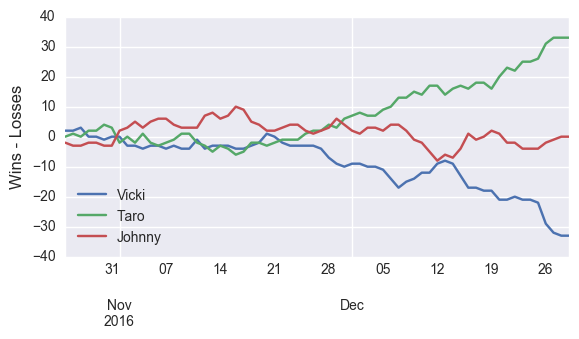
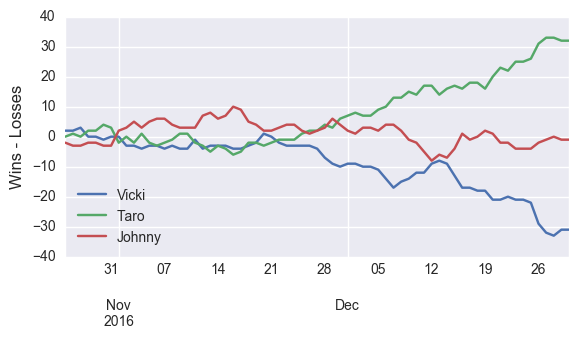
update 12/30

diff --git a/index.html b/index.html
@@ -35,7 +35,7 @@
 <a id="the-bet-is-on" class="anchor" href="#the-bet-is-on" aria-hidden="true"><span aria-hidden="true" class="octicon octicon-link"></span></a>The bet is on.</h1>
 
 <h1>
-<a id="current-winner-of-2016-17-season" class="anchor" href="#current-winner-of-2016-17-season" aria-hidden="true"><span aria-hidden="true" class="octicon octicon-link"></span></a>Current winner of 2016-17 Season (as of 12/29/2016):</h1>
+<a id="current-winner-of-2016-17-season" class="anchor" href="#current-winner-of-2016-17-season" aria-hidden="true"><span aria-hidden="true" class="octicon octicon-link"></span></a>Current winner of 2016-17 Season (as of 12/30/2016):</h1>
 
 <h2>
 <a id="none" class="anchor" href="#none" aria-hidden="true"><span aria-hidden="true" class="octicon octicon-link"></span></a><strong>Taro</strong>
@@ -44,23 +44,23 @@
 <h2>
 <a id="johnny" class="anchor" href="#johnny" aria-hidden="true"><span aria-hidden="true" class="octicon octicon-link"></span></a>Johnny</h2>
 
-<p>Wins: 163<br>
-Losses: 163<br>
-Remaining wins available: 422</p>
+<p>Wins: 164<br>
+Losses: 165<br>
+Remaining wins available: 419</p>
 
 <h2>
 <a id="taro" class="anchor" href="#taro" aria-hidden="true"><span aria-hidden="true" class="octicon octicon-link"></span></a>Taro</h2>
 
-<p>Wins: 176<br>
-Losses: 143<br>
-Remaining wins available: 422</p>
+<p>Wins: 177<br>
+Losses: 145<br>
+Remaining wins available: 419</p>
 
 <h2>
 <a id="vicki" class="anchor" href="#vicki" aria-hidden="true"><span aria-hidden="true" class="octicon octicon-link"></span></a>Vicki</h2>
 
-<p>Wins: 145<br>
-Losses: 178<br>
-Remaining wins available: 427</p>
+<p>Wins: 149<br>
+Losses: 180<br>
+Remaining wins available: 421</p>
 
 <img src='pythoncode/win_percent.png' alt='Winning Percentage Over Time'>
 <h1>
